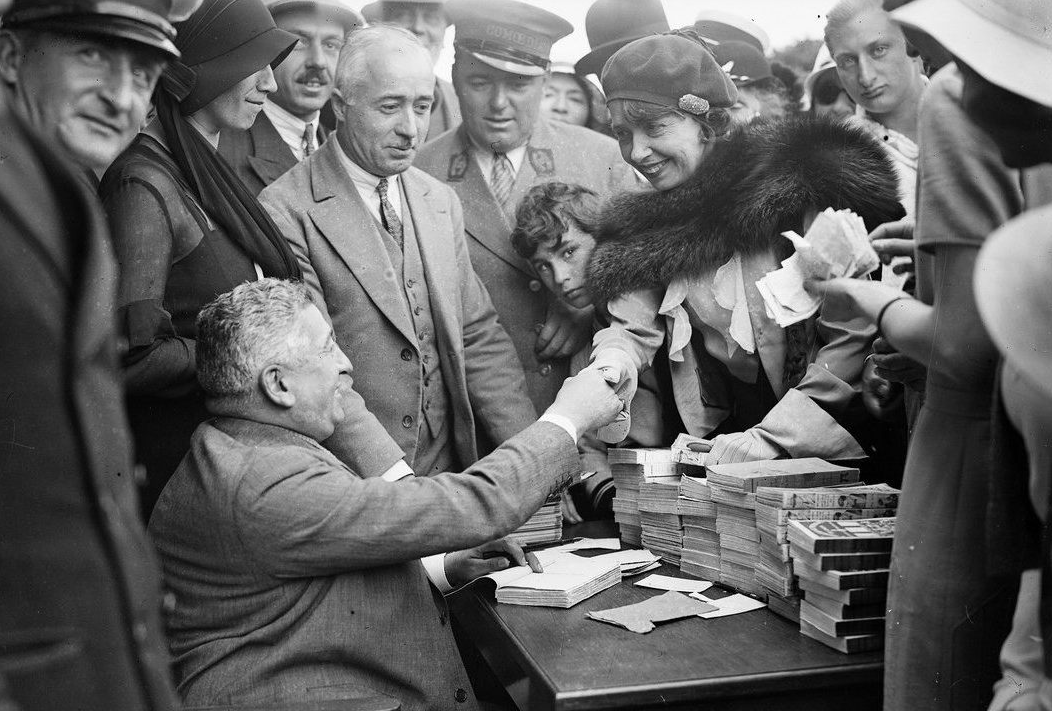
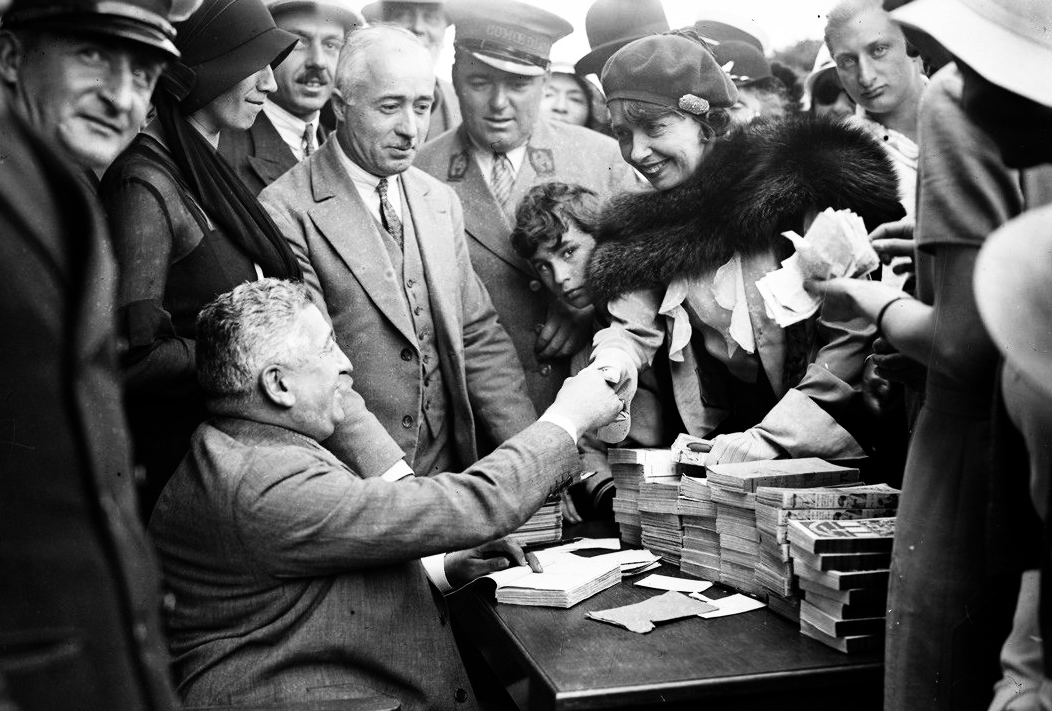
customised the index.html for blog project and updated css for marketing page

diff --git a/project-2-blog-site/customised/index.html b/project-2-blog-site/customised/index.html
@@ -1,37 +1,105 @@
 <!DOCTYPE html>
 <head>
   <link href="/normalize.css" rel="stylesheet">
+  <meta charset="UTF-8">
+  <meta name="viewport" content="width=device-width, initial-scale=1.0">
   <style>
-    header {
-      text-align: center;
-      background: url('../../assets/mistinguett/mistinguett-illustration-revue-des-follies.jpeg');
-      background-size: cover;
-      color: white;
+     @font-face {
+      font-family: 'SpecialElite';
+      src: url('../../assets/fonts/SpecialElite-Regular.woff2') format('woff2');
+      font-weight: normal;
+      font-style: normal;
+      font-display: swap;
     }
+
+    body {
+      background-color: #090935;
+      margin: 0;
+    }
+    header {
+      min-height: 53vh;
+      text-align: center;
+      position: relative;
+      z-index: 1;
+      background: url('../../assets/mistinguett/mistinguett-edited.png');
+      background-size: 65%;
+      background-position: center 40%;
+      color: white;
+      border: 8px solid #b3df7b;
+    }
+    .overlap-img {
+      position: absolute;
+      bottom: 0;
+      left: 50%;
+      transform: translate(-50%, 100%);
+      max-width: 600px;
+      border: 3px solid #090935;
+      border-radius: 0;
+      margin-bottom: 40px;
+    }
+
     a {
       color: white;
     }
+    
     h1 {
-      font-size: 70px;
+      position: absolute;
+      bottom: 0;
+      left: 50%;
+      transform: translate(-50%, -15%);
+      width: 100%;
+      margin: 0;
+      z-index: 2;
+      font-size: 60px;
+      font-family: 'SpecialElite';
+      font-style: italic;
+      color: red;
+      text-shadow: 8px 2px 8px white;
     }
-    img {
-      margin: 40px 0px 0px 0px;
-      border: 7px solid white;
-      border-radius: 20px;
-    }
+    
     ul {
-      padding: 10px;
-      background: rgba(0,0,0,0.5);
+      font-size: 20px;
+      font-family: 'SpecialElite';
+      padding: 20px 20px 20px 20px;
+      background: #cc3b3b;
+      margin: 0;
+      border: 8px solid #b3df7b;
     }
+    
+    ul a {
+      color: white;
+    }
+    
     li {
       display: inline;
       padding: 0px 10px 0px 10px;
     }
-    article {
-      max-width: 500px;
-      padding: 20px;
+    
+    .content-column {
+      max-width: 50%;
       margin: 0 auto;
+      margin-top: -50px;
+      position: relative;
+      z-index: 0;
+      background: #e1e1e1;
+      min-height: 100vh;
+      padding-top: 40px;
+      border: 8px solid #b3df7b;
     }
+    
+    article {
+      max-width: 900px;
+      padding: 10px;
+      margin: 20px auto;
+      border: 3px solid #a1c2ca;
+      background: white;
+      font-size: 12px;
+    }
+
+    h2 {
+      font-style: italic;
+    }
+    
     @media (max-width: 500px) {
       h1 {
         font-size: 36px;
@@ -46,29 +114,31 @@
 </head>
 <body>
   <header>
-    <img src="/assets/jeff.png">
-    <h1>Jeff's Blog</h1>
     <ul>
       <li><a href="#">About Me</a></li>
-      <li><a href="#">Best Poems</a></li>
-      <li><a href="#">Worst Poems</a></li>
+      <li><a href="#">About You</a></li>
+      <li><a href="#">About Nous...?</a></li>
     </ul>
+    <h1>Le Carnet Charnal de</h1>
+    <img class="overlap-img" src="../../assets/mistinguett/mistinguett-edited-text.png" alt="Le Carnet Charnal de Mistinguett">
   </header>
-  <article>
-    <h2>VHS umami pop-up trust fund</h2>
-    <p>Marfa church-key kitsch bicycle rights, 8-bit mixtape cardigan gentrify Echo Park. Street art swag brunch, next level roof party Schlitz hella organic keffiyeh selfies. You probably haven't heard of them polaroid hashtag +1, meggings biodiesel Portland High Life cray tumblr retro.</p>
-    <button>Like</button>
-  </article>
-  <article>
-    <h2>Sartorial synth Echo Park, roof party</h2>
-    <p>chambray you probably haven't heard of them pour-over viral selvage umami skateboard VHS post-ironic selfies. Wes Anderson gentrify fanny pack twee, bicycle rights bitters blog keffiyeh plaid flannel. Tonx irony cliche sustainable mlkshk bitters. Four loko leggings chambray Vice.</p>
-    <button>Like</button>
-  </article>
-  <article>
-    <h2>Forage food truck keytar master cleanse</h2>
-    <p>ethical thundercats sustainable locavore quinoa Neutra. Aesthetic tacky sweater single-origin coffee, bicycle rights organic lo-fi street art american apparel ennui four loko ethnic Brooklyn small batch. Forage YOLO polaroid</p>
-    <button>Like</button>
-  </article>
+  <div class="content-column">
+    <article style="margin-top: 120px;">
+      <h2>Ma Rivale, Mon Amie: The Night Joséphine Baker and I Shared the Stage</h2>
+      <p>Oh! je voudrais tant que tu te souviennes Des jours heureux où nous étions amis En ce temps-là la vie était plus belle Et le soleil plus brûlant qu'aujourd'hui Les feuilles mortes se ramassent à la pelle Tu vois, je n'ai pas oublié Les feuilles mortes se ramassent à la pelle Les souvenirs et les regrets aussi Et le vent du nord les emporte Dans la nuit froide de l'oubli Tu vois, je n'ai pas oublié La chanson que tu me chantais</p>
+      <button>Like</button>
+    </article>
+    <article>
+      <h2>Toy Boys & Cougars: How I Found Love (& Loss) Within Un Écart d'Âge</h2>
+      <p>C'est une chanson qui nous ressemble Toi, tu m'aimais et je t'aimais Et nous vivions tous deux ensemble Toi qui m'aimais, moi qui t'aimais Mais la vie sépare ceux qui s'aiment Tout doucement, sans faire de bruit Et la mer efface sur le sable Les pas des amants désunis</p>
+      <button>Like</button>
+    </article>
+    <article>
+      <h2>Why I Insured My Legs for a Million Dollars</h2>
+      <p>Les feuilles mortes se ramassent à la pelle Les souvenirs et les regrets aussi Mais mon amour silencieux et fidèle Sourit toujours et remercie la vie Je t'aimais tant, tu étais si jolie Comment veux-tu que je t'oublie? En ce temps-là, la vie était plus belle Et le soleil plus brûlant qu'aujourd'hui Tu étais ma plus douce amie Mais je n'ai que faire des regrets Et la chanson que tu chantais Toujours, toujours je l'entendrai!</p>
+      <button>Like</button>
+    </article>
+  </div>
   <script>
     $("button").on("click", function() {
       alert("Clicked!");

diff --git a/project-1-marketing-webpage/customised/style.css b/project-1-marketing-webpage/customised/style.css
@@ -82,7 +82,7 @@ main {
     width: 20vw;
     min-height: 100vh;
     margin-right: auto;
-    margin-left: 20vw;
+    margin-left: 5vw;
     overflow: visible;
 }
 
@@ -166,7 +166,7 @@ main {
 }
 
 .text-block--occupations {
-    gap: 40px;
+    gap: 70px;
     font-size: 38px;
     font-weight: bold;
     margin-top: 100px;
@@ -180,7 +180,7 @@ main {
 
 .speech-group {
     position: absolute;
-    top: 23%;
+    top: 27%;
     right: 5%;
     display: flex;
     flex-direction: column;
@@ -193,28 +193,28 @@ main {
 
 .text-block--penchant {
     transform: rotate(5deg) translateY(15px) translateX(-220px);
-    font-size: 33px;
+    font-size: 35px;
     font-weight: bold;
 }
 
 .text-block--eyes {
-    font-size: 29px;
+    font-size: 31px;
     transform: rotate(4deg) translateY(50px) translateX(-190px);
 }
 
 .text-block--flirt {
-    font-size: 26px;
+    font-size: 28px;
     font-weight: bold;
     margin-top: 6%;
     color: var(--color-red);
-    transform: rotate(2deg) translateY(55px) translateX(-180px);
+    transform: rotate(2deg) translateY(80px) translateX(-200px);
 }
 
 .text-block--cta {
     display: flex;
     flex-direction: column;
     align-items: center;
-    gap: 10px;
+    gap: 20px;
     background: none;
     border: none;
     padding: 0;
